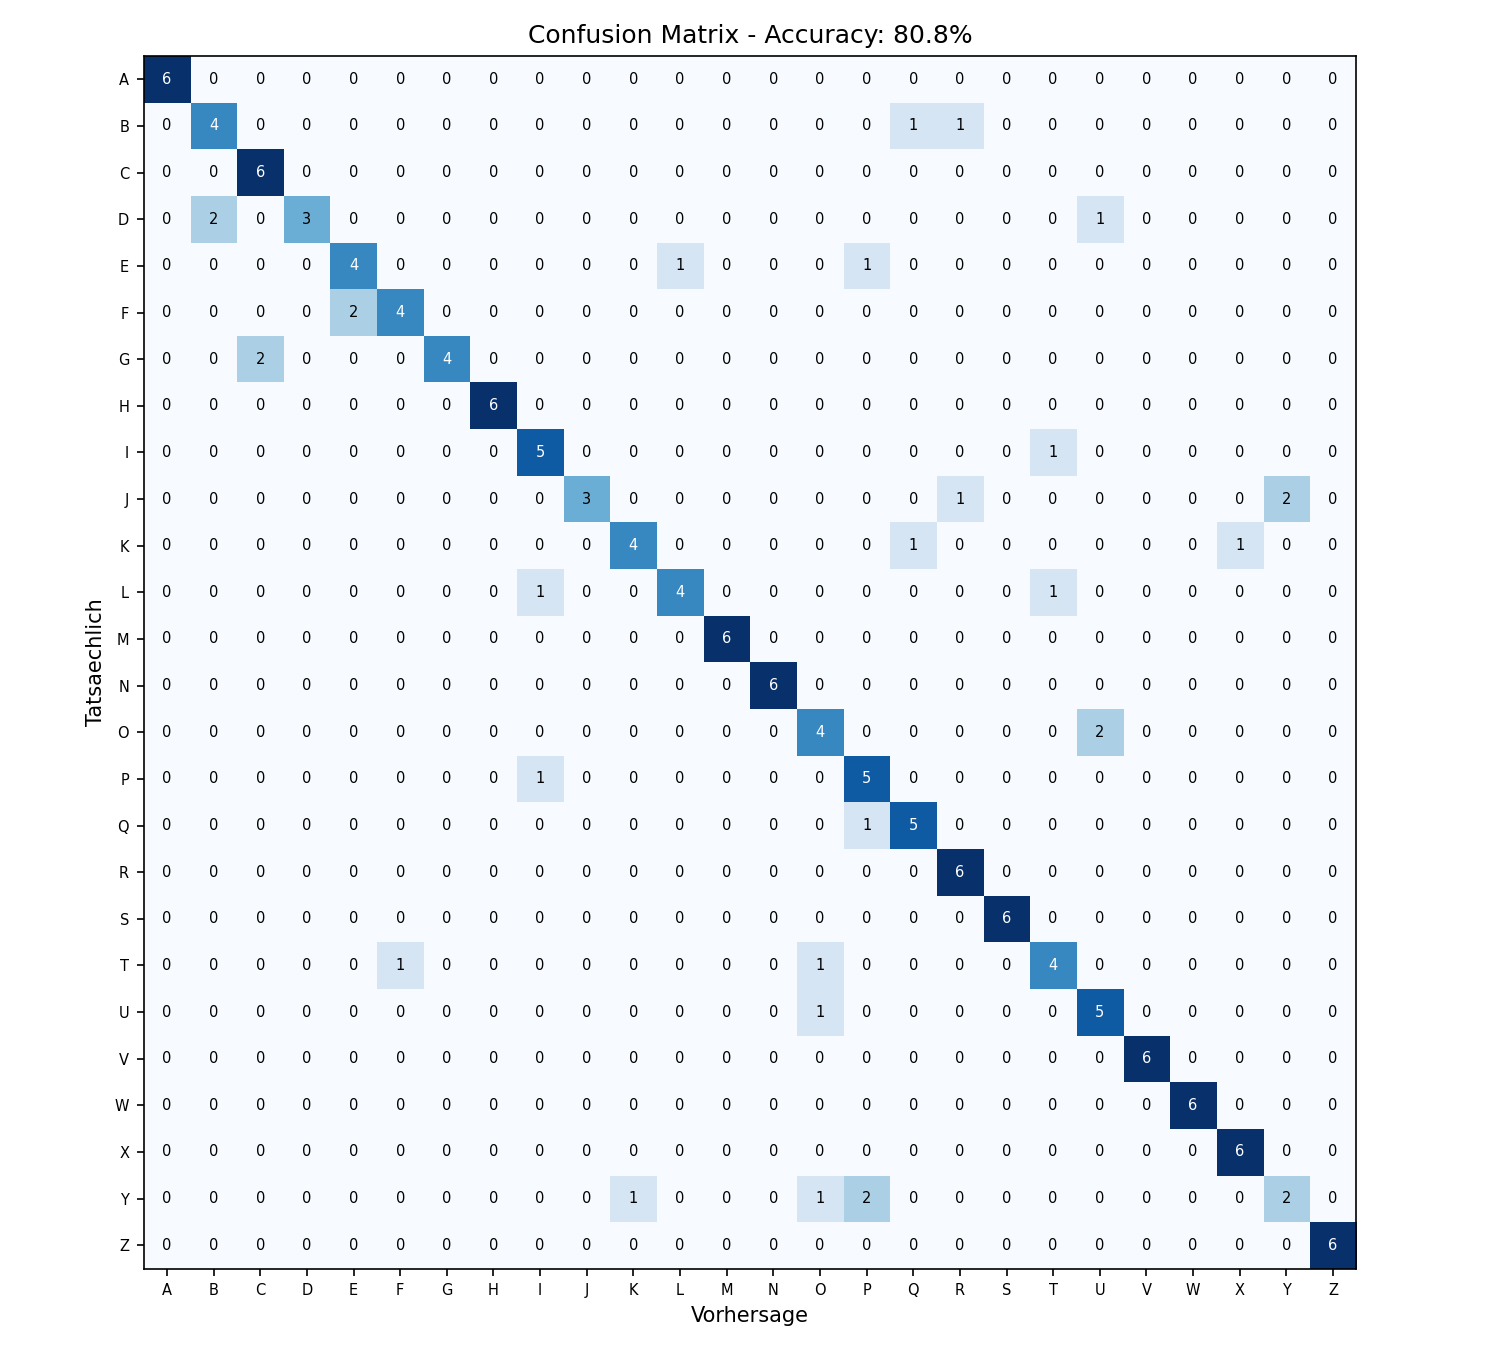
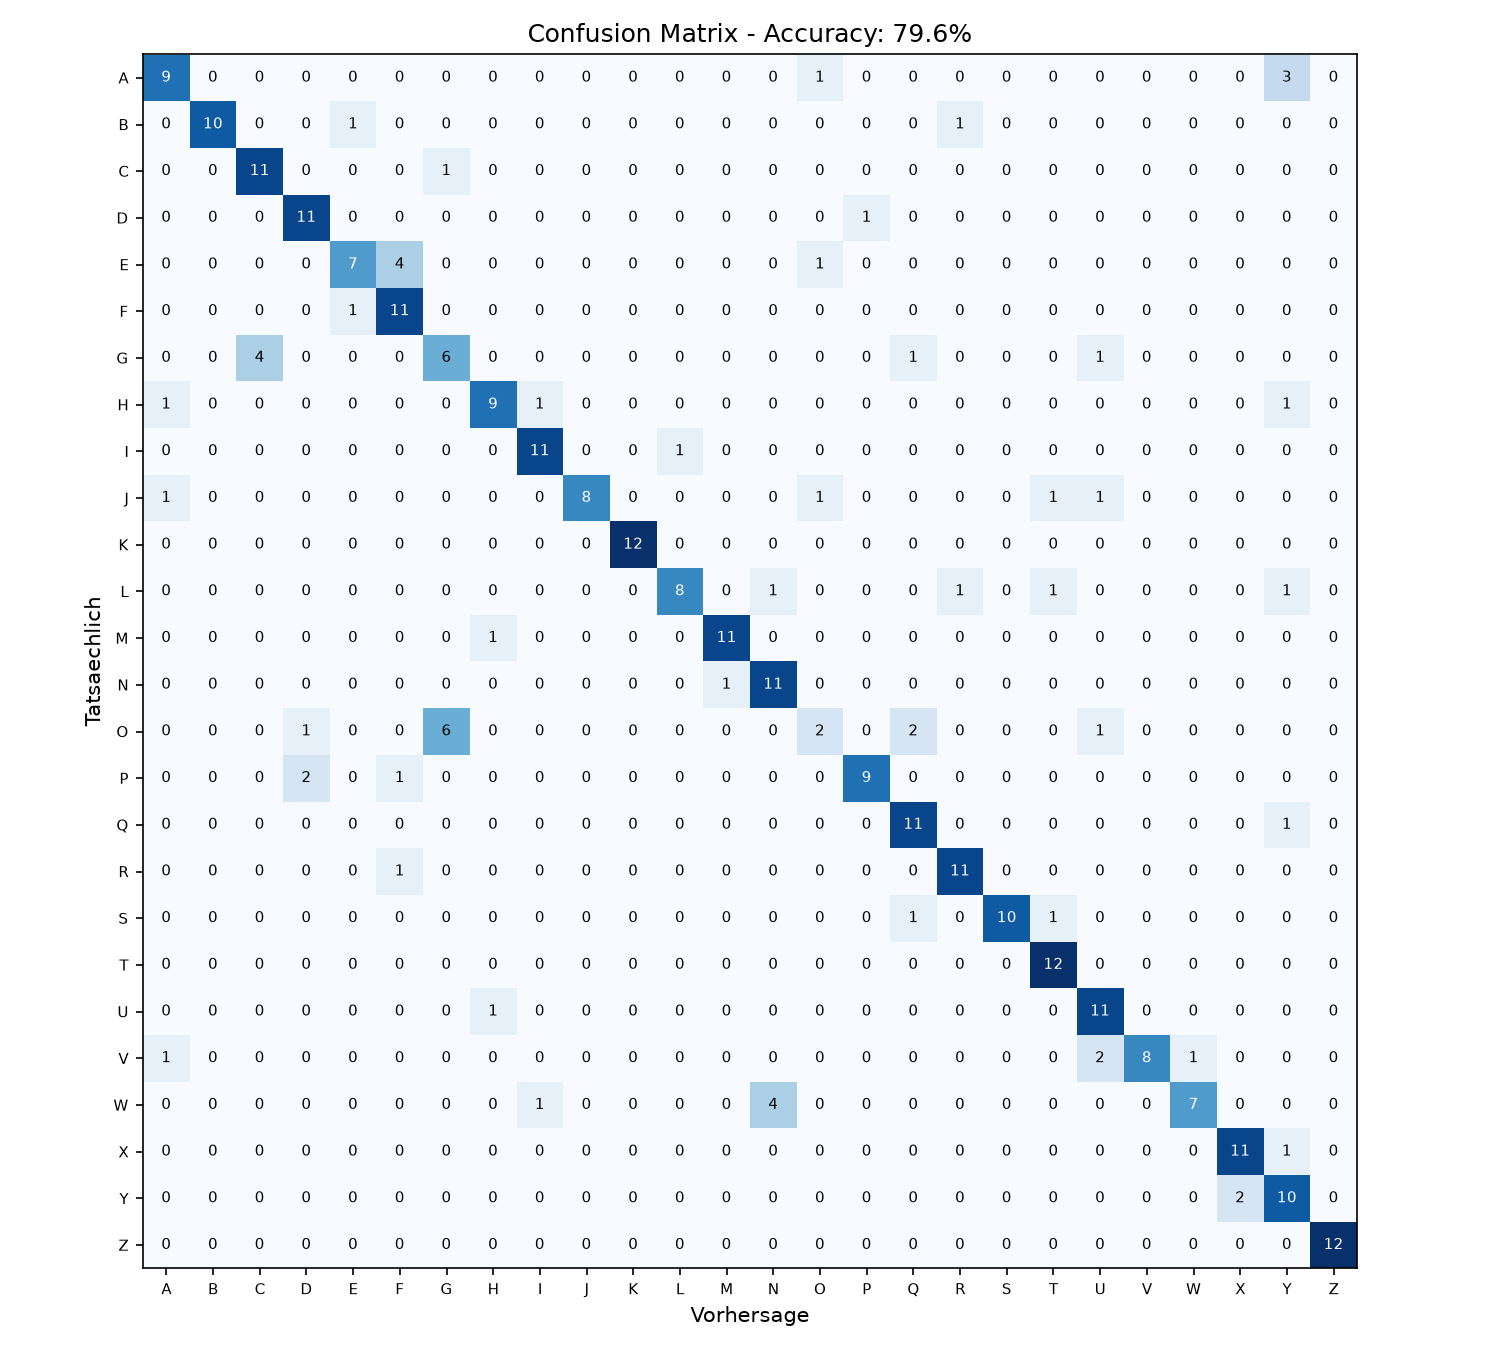
Rückwärts-Training gegen Zeichenrichtung + tastaturloser Reset

diff --git a/record_new_gesture.py b/record_new_gesture.py
@@ -9,10 +9,16 @@ def main():
     parser = argparse.ArgumentParser(
         description="Neue Geste live aufnehmen und Modell neu trainieren (Pruefungsszenario)."
     )
-    parser.add_argument("label", help="Name der neuen Geste/Klasse, z.B. 'Kreis'")
-    parser.add_argument("--times", type=int, default=10, help="Anzahl Aufnahmen (Standard: 10)")
+    parser.add_argument("label", nargs="?", default=None, help="Name der neuen Geste/Klasse, z.B. 'Kreis'")
+    parser.add_argument("--times", type=int, default=None, help="Anzahl Aufnahmen (Standard: 10)")
     parser.add_argument("--no-retrain", action="store_true", help="Nach der Aufnahme nicht automatisch neu trainieren")
     args = parser.parse_args()
+
+    if not args.label:
+        args.label = input("Name der neuen Geste: ").strip()
+    if not args.times:
+        times = input("Wie oft aufnehmen? [10]: ").strip()
+        args.times = int(times) if times else 10
 
     print(f"Neue Geste '{args.label}': {args.times} Aufnahmen werden aufgenommen.\n")
     data_labeling(times=args.times, label=args.label)

diff --git a/GestureRecognition/labeling.py b/GestureRecognition/labeling.py
@@ -265,11 +265,12 @@ def dataset_building(output_path, n_points=50):
         if traj.shape[0] < 2:
             continue
 
-        traj = resample_by_arc_length(traj, n_points=n_points)
-        traj = add_velocity_features(traj)
-        traj = add_curvature_feature(traj)
-        sequences.append(traj)
-        labels.append(label)
+        for version in (traj, traj[::-1]):
+            resampled = resample_by_arc_length(version, n_points=n_points)
+            resampled = add_velocity_features(resampled)
+            resampled = add_curvature_feature(resampled)
+            sequences.append(resampled)
+            labels.append(label)
 
     print(f"{len(sequences)} Sequenzen geladen, Klassen: {sorted(set(labels))}")
     return sequences, labels

diff --git a/GestureRecognition/modules/trailmarker.py b/GestureRecognition/modules/trailmarker.py
@@ -1,6 +1,7 @@
 import numpy as np
 from SignalHub import GALY, bgr, Module, get_nested_key
 from collections import deque
+from GestureRecognition.hotkeys import reset_requested
 
 class TrailMarker(Module):
     """
@@ -116,10 +117,14 @@ class TrailMarker(Module):
         return {}
 
     def step(self, data):
+        if reset_requested():
+            self.trail.clear()
+
         result = data["detector"]
         galy = GALY()
         galy.layer("trailmarker")
         galy.set_layer_affine_mapping(self.mapping)
+        galy.putText("ENTF: neue Geste", (30, 700), color=(0, 255, 255))
 
         if result is None or not result.hand_landmarks:
             self.lost_count += 1

diff --git a/GestureRecognition/hotkeys.py b/GestureRecognition/hotkeys.py
@@ -1,0 +1,28 @@
+from SignalHub.galyQT import MainWindow
+from PyQt5.QtCore import Qt
+
+_delete_held = False
+_orig_press = MainWindow.keyPressEvent
+_orig_release = MainWindow.keyReleaseEvent
+
+
+def _press(self, event):
+    global _delete_held
+    if event.key() == Qt.Key_Delete:
+        _delete_held = True
+    _orig_press(self, event)
+
+
+def _release(self, event):
+    global _delete_held
+    if event.key() == Qt.Key_Delete:
+        _delete_held = False
+    _orig_release(self, event)
+
+
+MainWindow.keyPressEvent = _press
+MainWindow.keyReleaseEvent = _release
+
+
+def reset_requested():
+    return _delete_held

diff --git a/GestureRecognition/modules/preprocessor.py b/GestureRecognition/modules/preprocessor.py
@@ -6,6 +6,7 @@ from GestureRecognition.labeling import (
     add_velocity_features,
     add_curvature_feature,
 )
+from GestureRecognition.hotkeys import reset_requested
 
 class Preprocessor(Module):
     """
@@ -177,6 +178,11 @@ class Preprocessor(Module):
 
             ``return {outputSignal: trajectory}``
         """
+        if reset_requested():
+            self.trajectory.clear()
+            self.lost_count = 0
+            return {"preprocessor": None}
+
         result = data["detector"]
 
         if result is None or not result.hand_landmarks:
